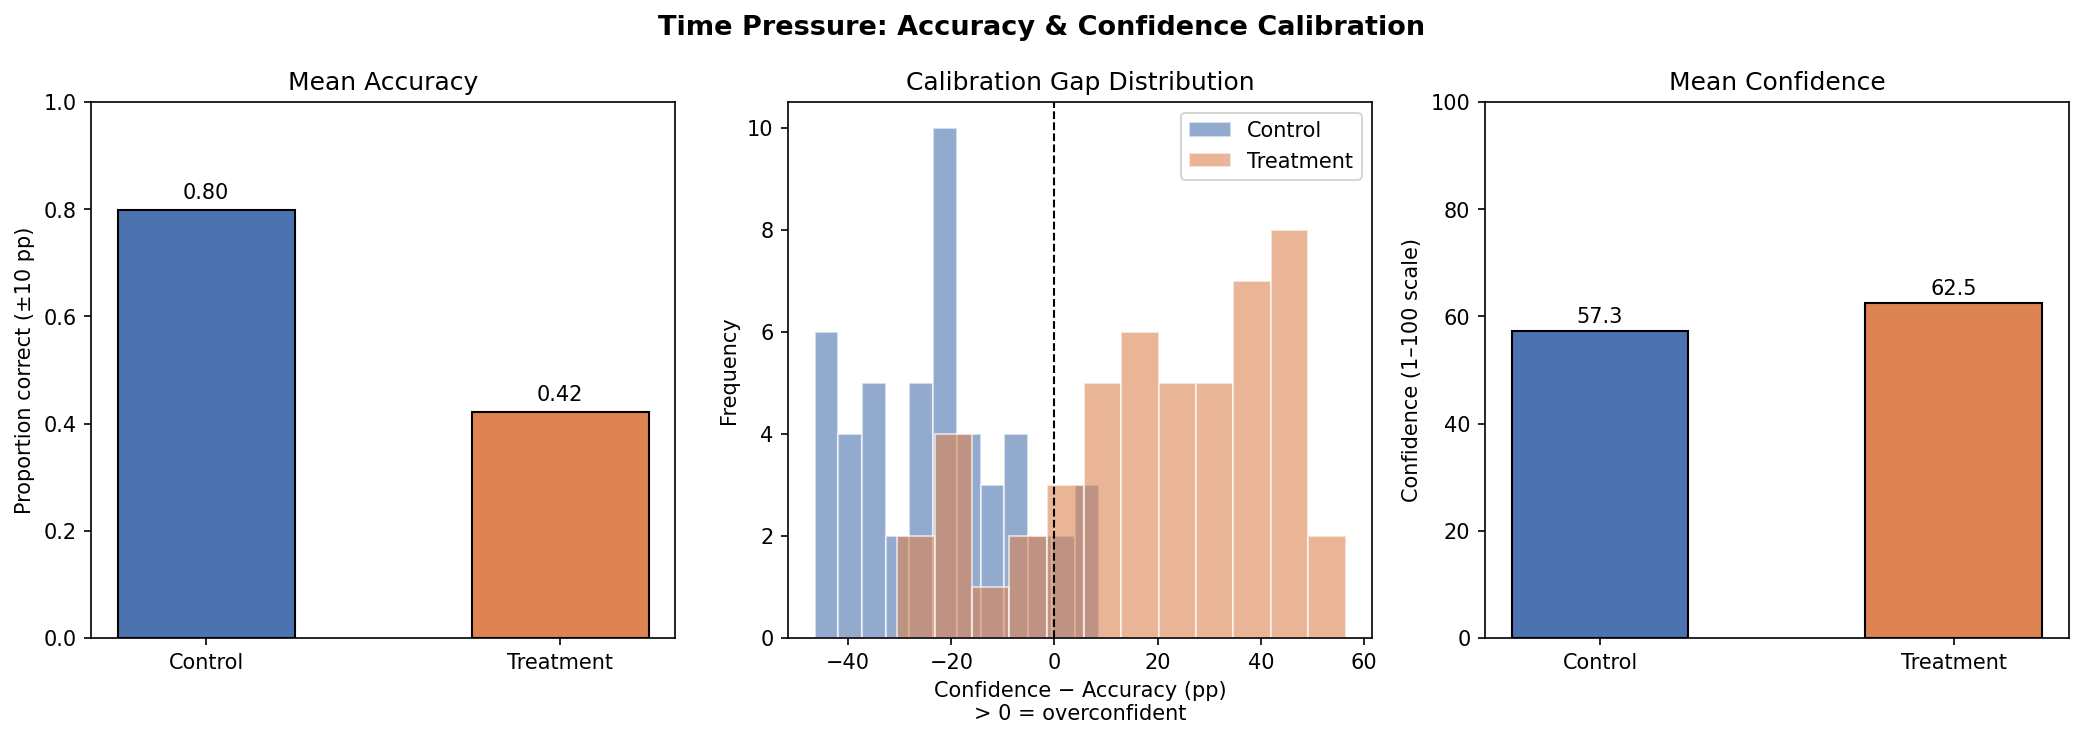
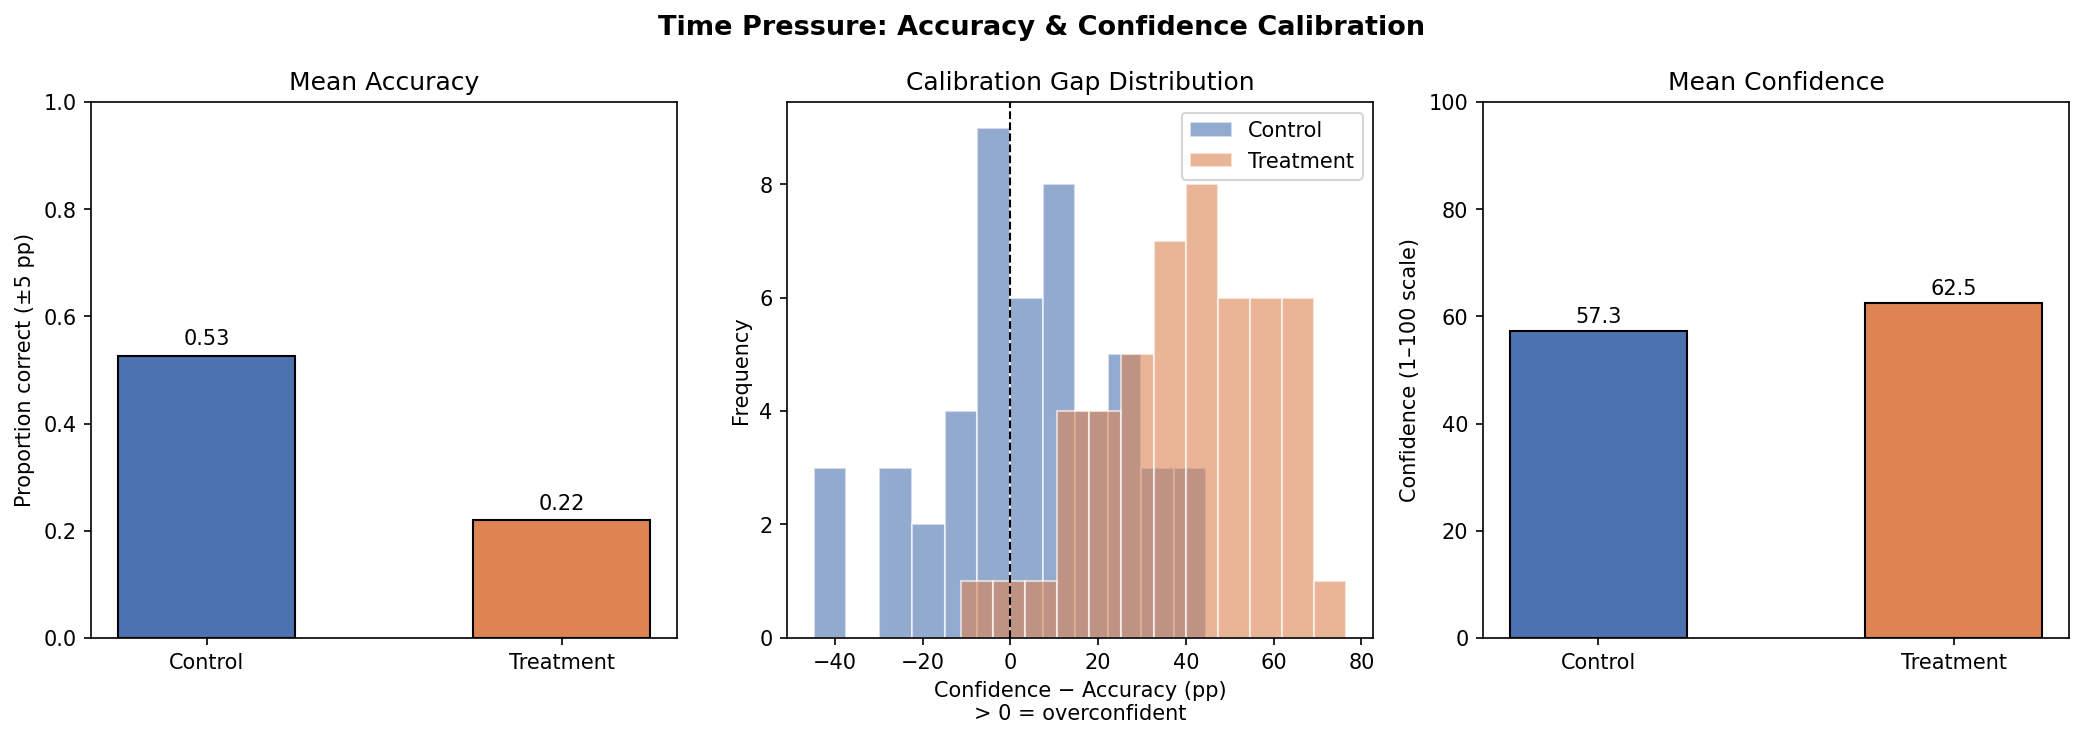
changed accuracy threshhold

diff --git a/analysis.py b/analysis.py
@@ -35,8 +35,8 @@ else:
 
 # ── 1. Derived variables ─────────────────────────────────────────────────────
 
-# Accuracy: 1 if |response - true_value| ≤ 10, else 0
-df["accuracy"] = (np.abs(df["response"] - df["true_value"]) <= 10).astype(int)
+# Accuracy: 1 if |response - true_value| ≤ 5, else 0
+df["accuracy"] = (np.abs(df["response"] - df["true_value"]) <= 5).astype(int)
 
 # Calibration gap (confidence already on 0–100 scale)
 # CalibrationGap = Confidence - (100 × Accuracy)
@@ -134,7 +134,7 @@ axes[0].bar(
 )
 axes[0].set_ylim(0, 1)
 axes[0].set_title("Mean Accuracy")
-axes[0].set_ylabel("Proportion correct (±10 pp)")
+axes[0].set_ylabel("Proportion correct (±5 pp)")
 for i, (k, v) in enumerate(means_acc.items()):
     axes[0].text(i, v + 0.02, f"{v:.2f}", ha="center", fontsize=10)
 
